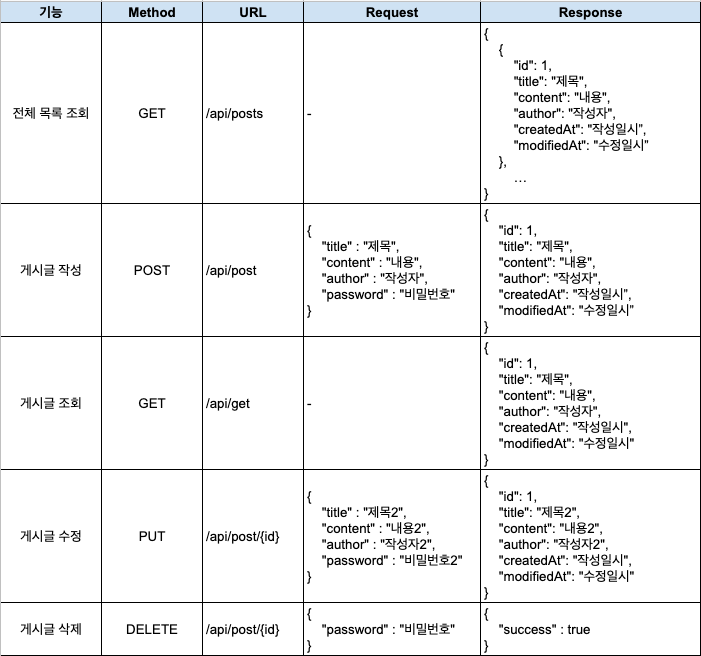
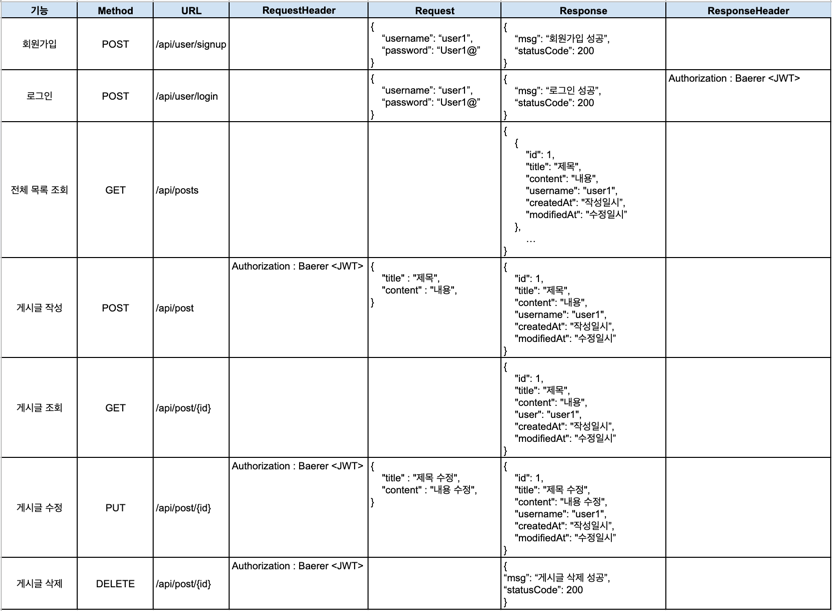
docs: #25 API 명세서 수정
기능이 추가, 변경됨에 따라 API 명세서를 수정했다.
README.md에 추가된 기능과 수정사항들을 반영했다.

diff --git a/README.md b/README.md
@@ -1,20 +1,32 @@
 # Spring으로 만들어보는 게시판 프로젝트
 
 ### 1. 기능 정의
-1. 전체 게시글 목록 조회
-    - 제목, 작성자명, 작성 내용, 작성 날짜를 조회하기
+1. 회원가입
+    - Client에서 username, password 입력
+    - username, password 유효성 검사
+      - username : 4 ~ 10자리, [a-z0-9]
+      - password : 8 ~ 15자리, [a-zA-Z-0-9]
+    - username 중복 확인
+    - 유효성 검사, 중복 확인 통과하면, 회원 저장 후 Client로 성공 메시지, 상태코드 반환
+2. 로그인
+    - Client에서 username, password 입력
+    - DB에서 회원 username, password 확인
+    - 해당 회원 정보 있는 경우, 유저 정보와 JWT 활용하여 토큰 발급 후 발급한 토큰 Header 추가하고 성공 메시지, 상태코드 반환
+3. 전체 게시글 목록 조회
+    - 제목, 작성자명(username), 작성 내용, 작성 날짜를 조회하기
     - 작성 날짜 기준 내림차순으로 정렬하기
-2. 게시글 작성
-    - 제목, 작성자명, 비밀번호, 작성 내용을 저장하고
-    - 저장된 게시글을 Client 로 반환하기
-3. 선택한 게시글 조회
-    - 선택한 게시글의 제목, 작성자명, 작성 날짜, 작성 내용을 조회하기
-4. 선택한 게시글 수정
-    - 수정을 요청할 때 수정할 데이터와 비밀번호를 같이 보내서 서버에서 비밀번호 일치 여부를 확인 한 후
-    - 제목, 작성자명, 작성 내용을 수정하고 수정된 게시글을 Client 로 반환하기
-5. 선택한 게시글 삭제 API
-    - 삭제를 요청할 때 비밀번호를 같이 보내서 서버에서 비밀번호 일치 여부를 확인 한 후
-    - 선택한 게시글을 삭제하고 Client 로 성공했다는 표시 반환하기
+4. 게시글 작성
+    - 토큰 검사 후, 유효한 토큰인 경우에만 작성 가능
+    - 제목, 작성자명, 비밀번호, 작성 내용 저장
+    - 저장된 게시글을 Client 로 반환
+5. 선택한 게시글 조회
+    - 선택한 게시글의 제목, 작성자명(username), 작성 날짜, 작성 내용을 조회
+6. 선택한 게시글 수정
+    - 토큰 검사 후, 유효 토큰이면서 해당 사용자가 작성한 게시글만 수정 가능
+    - 제목, 작성자명, 작성 내용을 수정 후, 수정된 게시글 Client 로 반환
+7. 선택한 게시글 삭제
+    - 토큰 검사 후, 유효 토큰이면서 해당 사용자가 작성한 게시글만 삭제 가능
+    - 선택한 게시글을 삭제 후, Client 로 성공 메시지, 상태코드 반환
 
 ### 2. 유스케이스 다이어그램
 ![usecase.png](document/usecase.png)
